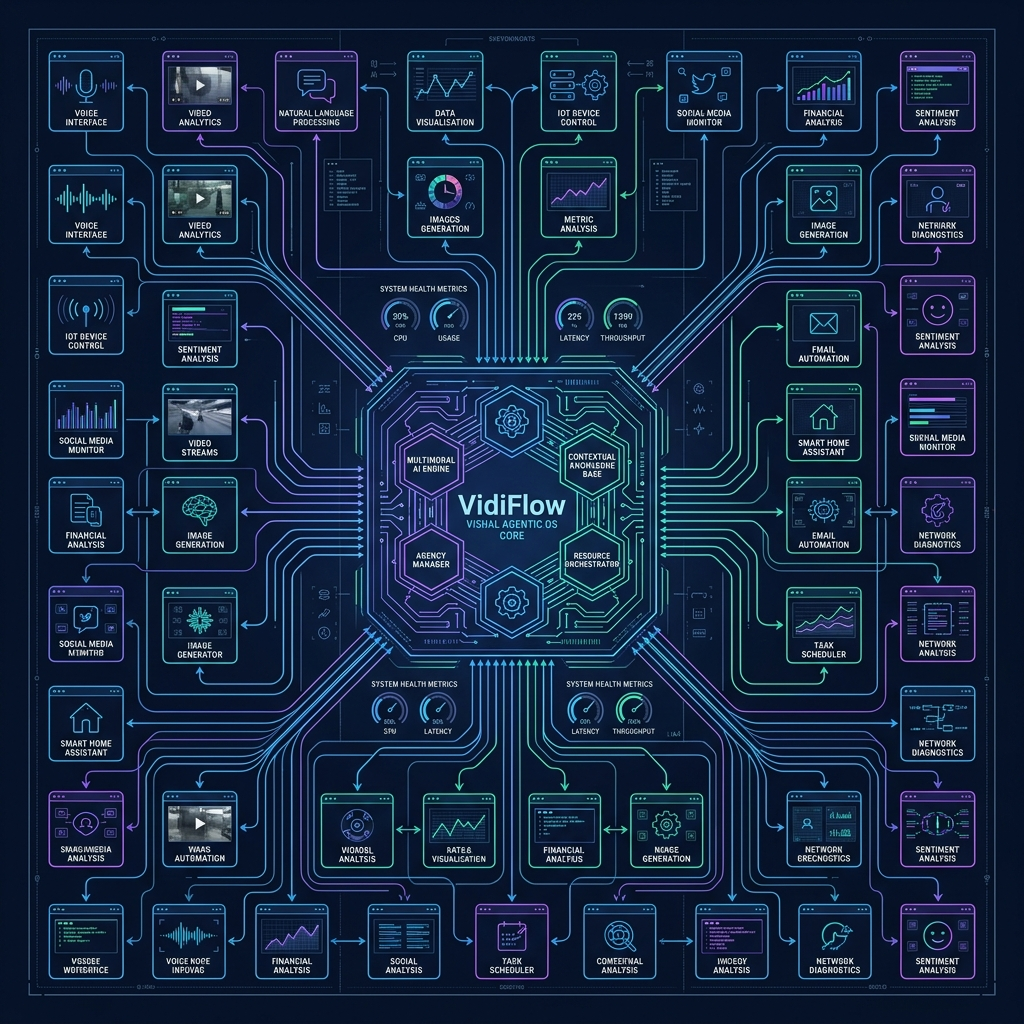
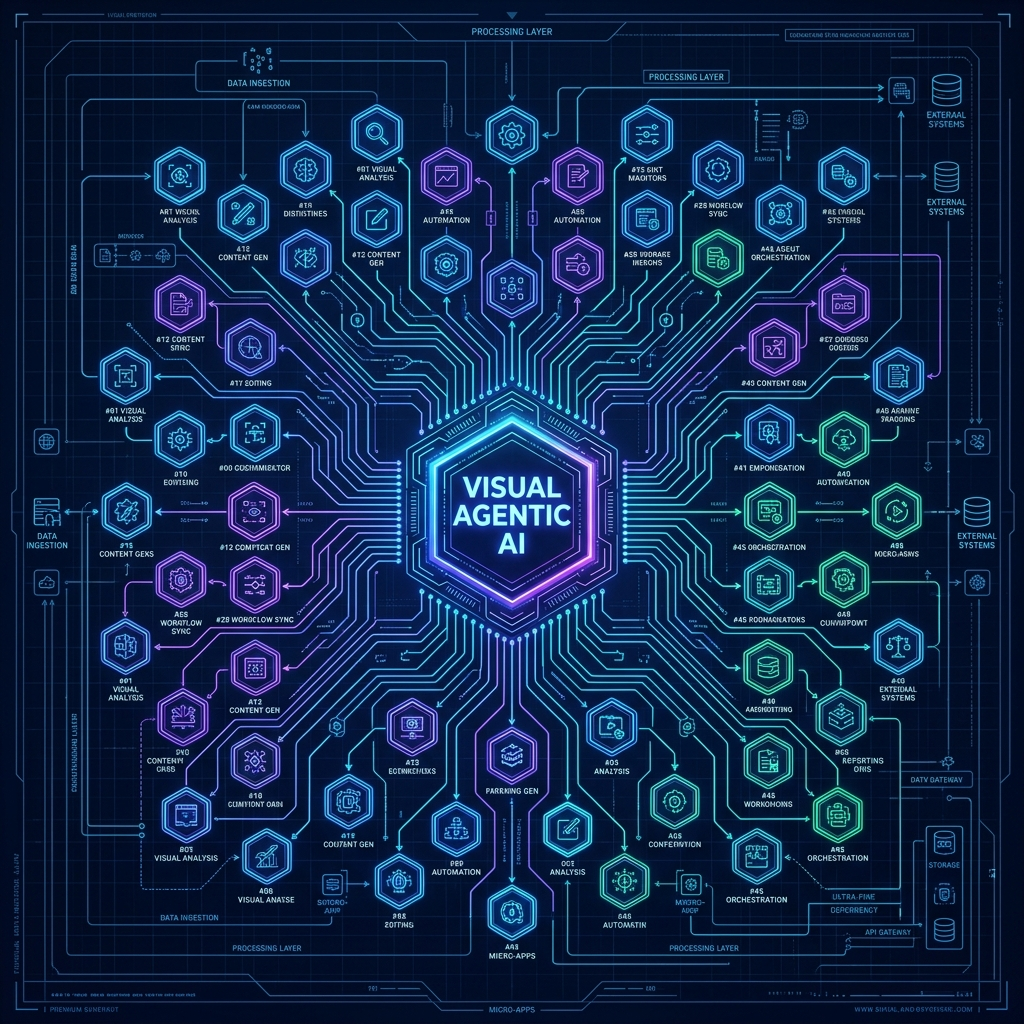
rename Consolidated Autonomous Engine to Visual Agentic AI, update visual OS diagram to match

diff --git a/master-menu.html b/master-menu.html
@@ -139,7 +139,7 @@
                 <div class="inline-flex items-center gap-2 px-3 py-1 rounded-md bg-purple-500/10 border border-purple-500/20 text-purple-400 text-xs font-bold self-start uppercase">
                     <i class="fas fa-info-circle"></i> Strategy Summary
                 </div>
-                <h2 class="text-3xl font-bold text-white tracking-tight">Consolidated Autonomous Engine</h2>
+                <h2 class="text-3xl font-bold text-white tracking-tight">Visual Agentic AI</h2>
                 <p class="text-slate-300 leading-relaxed text-sm">
                     This Playbook Hub represents the VidiSmart blueprint: a highly integrated, self-managing mesh of AI agents and specialized interfaces. Rather than running 30 isolated micro-apps, our platform coordinates agents in voice, video, text chat, and Operations/HX workflows. 
                 </p>
